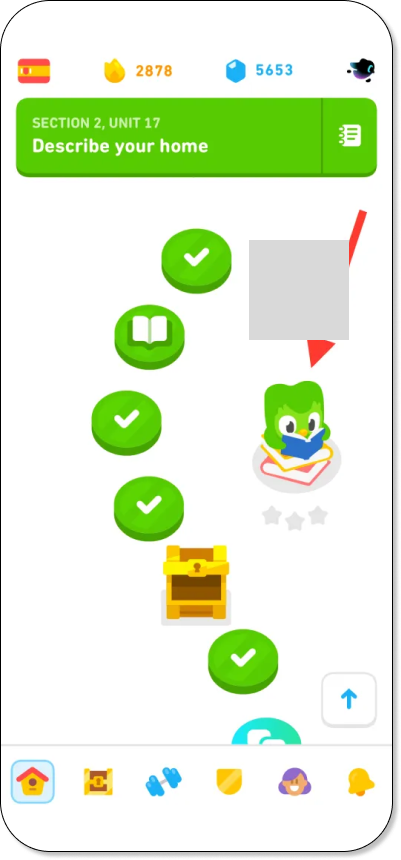
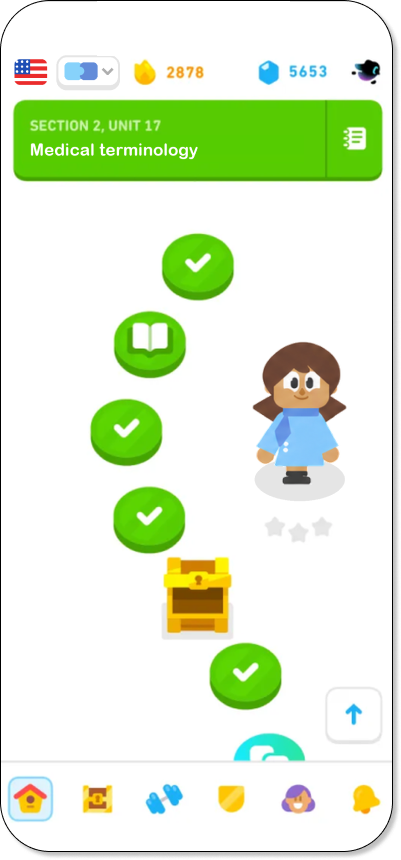
Deck: UI scenario slide uses the updated Figma screens

diff --git a/deck/slides.js b/deck/slides.js
@@ -235,9 +235,9 @@ window.WORLD_ACTORS = {
   // Twin Characters in UI Scenario: four phone screens (phone 1 is its own frame; 2-4 are cut
   // from the Figma image that sits over the other three frames)
   phone1: { type: "img", src: DECK_ART + "ui/phone-1.png", w: 401, h: 860, z: 10 },
-  phone2: { type: "img", src: DECK_ART + "ui/phone-2.png", w: 399, h: 881, z: 10 },
-  phone3: { type: "img", src: DECK_ART + "ui/phone-3.png", w: 415, h: 867, z: 10 },
-  phone4: { type: "img", src: DECK_ART + "ui/phone-4.png", w: 405, h: 863, z: 10 },
+  phone2: { type: "img", src: DECK_ART + "ui/phone-2.png", w: 401, h: 860, z: 10 },
+  phone3: { type: "img", src: DECK_ART + "ui/phone-3.png", w: 401, h: 860, z: 10 },
+  phone4: { type: "img", src: DECK_ART + "ui/phone-4.png", w: 401, h: 860, z: 10 },
   // Character Default (second version): a dark blurred glow behind the twins
   glow: { type: "ellipse", blur: 150, z: 2.8 },
   // Who is he?: the ten Duolingo characters (tiles cut from the Figma screenshots), and the
@@ -684,10 +684,11 @@ window.SLIDES = [
       // The blue bar from the last slide sweeps across the whole screen
       posesBar: { x: -600, y: -600, w: 3120, h: 2280, color: C.blue, at: [0, 0.5], exit: { opacity: 0, at: [0, 0.05] } },
       // The screens swipe in from the right, one by one
+      // Figma's updated frame (Duolingo Design Board): four evenly spaced iPhone 16 screens
       phone1: swipeIn(79, 114, 401, 0.45),
-      phone2: swipeIn(527, 108, 399, 0.53),
-      phone3: swipeIn(981, 109, 415, 0.61),
-      phone4: swipeIn(1444, 111, 405, 0.69)
+      phone2: swipeIn(535, 114, 401, 0.53),
+      phone3: swipeIn(991, 114, 401, 0.61),
+      phone4: swipeIn(1447, 114, 401, 0.69)
     }
   },
   {

diff --git a/TASKS.md b/TASKS.md
@@ -193,3 +193,4 @@ Work queue for the deck and demo.
 - [ ] APPROVED (2026-10-12, Michelle in chat: "Delete it and merge it"): Merge deck/board-pop (empty bar click-in / pop-in) into main.
 - [ ] APPROVED (2026-10-12, Michelle in chat): "Add in an option where clicking goes onto the next part." Clicking (or tapping) anywhere on the deck moves to the next step, like the → key. Shift+click goes back. Links and form controls keep their own clicks, and selecting text doesn't advance.
 - [ ] APPROVED (2026-10-12, Michelle in chat: "Merge it"): Merge deck/click-next (click or tap for the next step) into main.
+- [ ] APPROVED (2026-10-12, Michelle in chat): "Add this frame into the slide, and place it right after the character poses" (Figma "Twin Characters in UI Scenario", node 169:2562 in Duolingo Design Board (Copy)(Copy)). The deck already had a slide built from an older version of this frame, right after the character poses. It now shows the frame's updated screens: Medical terminology path; "Split the word into its meaningful parts" with transport; "5 in a row!" chat; "Perfect lesson!". The four phones are evenly spaced as in the frame (x 79, 535, 991, 1447; y 114). The entrance is unchanged: the phones swipe in one by one.
